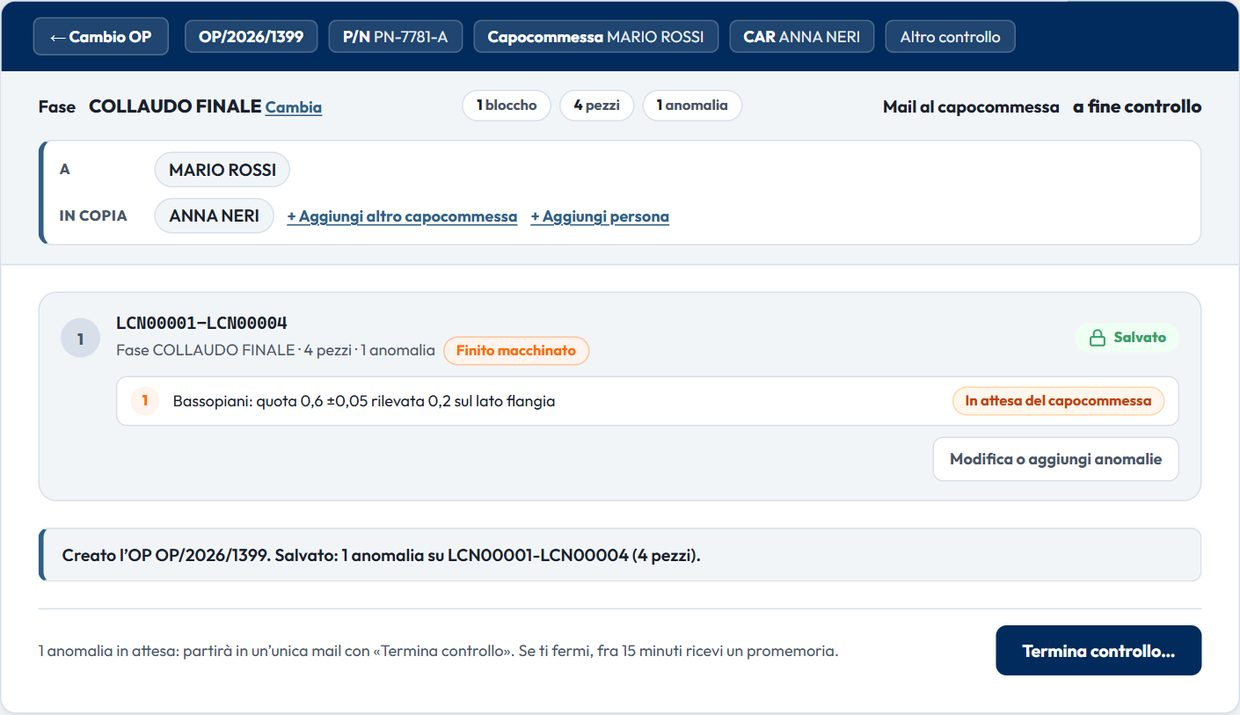
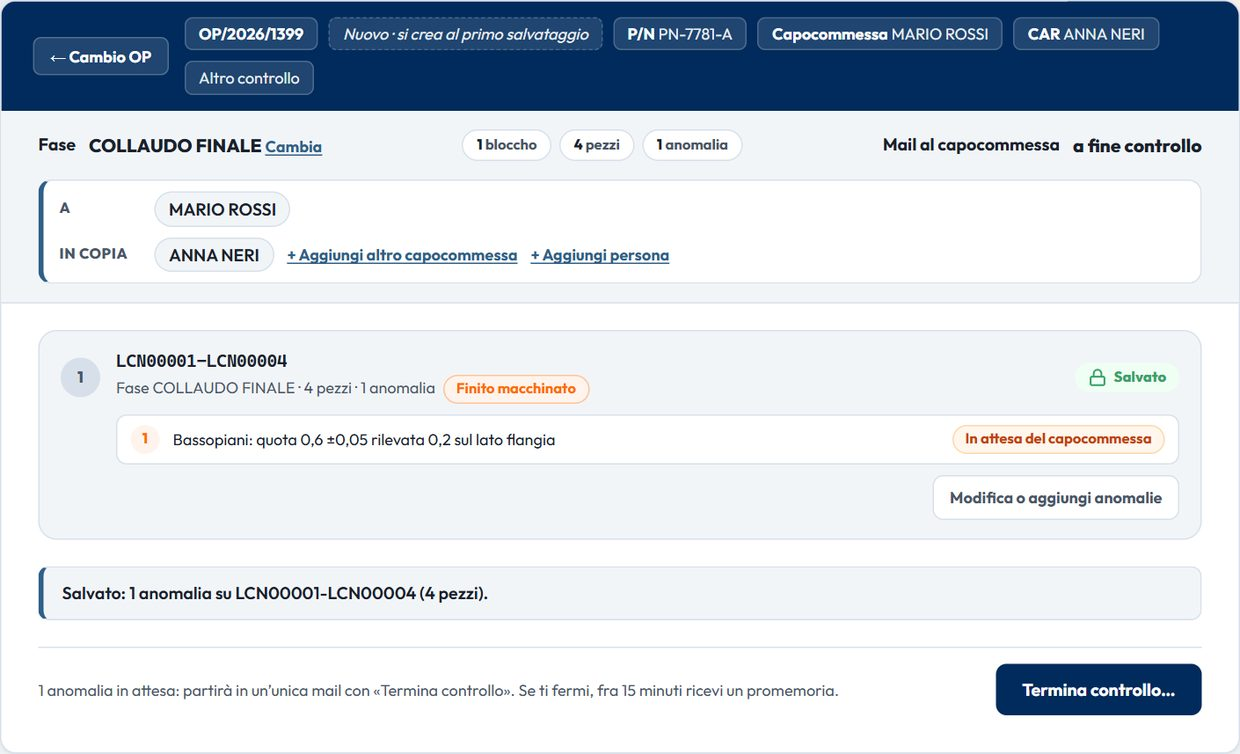
anomalie: immagini delle guide rapide rifatte sulla pagina attuale
Claude-Session: https://claude.ai/code/session_01GzwwLhYUGVAQdd3uMvviE8

diff --git a/django_app/anomalie/guida_ruoli.py b/django_app/anomalie/guida_ruoli.py
@@ -58,7 +58,7 @@ SEZIONI_CONTROLLORE: list[dict] = [
                 "Altra anomalia sugli stessi pezzi: «+ Nuova anomalia su questi seriali».",
                 "Premi «Salva blocco» e passa al blocco successivo.",
             ]),
-            ("img", (_IMG + "c3_blocco.jpg", "Un blocco pronto da salvare")),
+            ("img", (_IMG + "c3_blocco.jpg", "Un blocco pronto da salvare, con «Dove sono i pezzi?» e una misura fuori tolleranza")),
             ("ul", [
                 "Non vedi alcuni di questi campi? Chi gestisce il modulo sceglie in Configurazione quali compaiono e "
                 "per chi (per esempio solo a chi fa il controllo CMM).",
@@ -162,7 +162,7 @@ SEZIONI_CAPOCOMMESSA: list[dict] = [
                 "Scrivi la «Risposta / note per il reparto».",
                 "«Salva» (Ctrl+S) oppure «Salva e prossima».",
             ]),
-            ("img", (_IMG + "k2_decisione.jpg", "Decisione del capocommessa")),
+            ("img", (_IMG + "k2_decisione.jpg", "Decisione del capocommessa: flag, «A quale CAR?», «Dal controllore» e allegati")),
             ("ul", [
                 "Con una nota l'avanzamento non può restare «In attesa».",
                 "L'anomalia si chiude da sola con «Accetto lo stato», «Apertura ORE/RIPI» o aprendo un RDC.",
@@ -186,7 +186,7 @@ SEZIONI_CAPOCOMMESSA: list[dict] = [
                 "successivo. Puoi allegare la comunicazione in «Allegati della decisione».",
                 "Quando il cliente risponde, torna sull'anomalia in Gestione e scegli lo stato definitivo.",
             ]),
-            ("img", (_IMG + "k3_cliente.jpg", "«Segnalare al cliente» e stato «In attesa risposta cliente»")),
+            ("img", (_IMG + "k3_cliente.jpg", "«Segnalare al cliente», «Segnalato al cliente» e stato «In attesa risposta cliente»")),
         ],
     },
     {

diff --git a/CHANGELOG.md b/CHANGELOG.md
@@ -9,6 +9,7 @@ Storico archiviato: [dalla 1.4.0 alla 1.6.2 (pre go-live)](docs/changelog/CHANGE
 
 ## [Unreleased]
 
+- **Anomalie, immagini delle guide rapide rifatte** — catture della pagina attuale con dati di esempio: blocco del controllore con «Dove sono i pezzi?», simboli e «Misura fuori tolleranza»; decisione con «Segnala a terzista», «Segnala a CAR» e «A quale CAR?», «Dal controllore», allegati della decisione; «Segnalato al cliente». Didascalie aggiornate. File: `anomalie/static/anomalie/guida/*.jpg`, `anomalie/guida_ruoli.py`.
 - **Presenti in azienda: entrate e uscite controllate sull'intera giornata** — le «Uscite non timbrate» non guardano più solo l'ultima timbratura: `solari.analizza_giornata` distingue uscita mancante, verso sbagliato (uscita timbrata come entrata, rientro timbrato come uscita), due entrate o due uscite di fila, e non segnala i turni a cavallo della mezzanotte (uscita il mattino dopo entro 16 h). Pagina e mail al capo riportano il problema e la sequenza del giorno («E 07:45 · U 12:00 · E 12:50»). Lista live e appello: due uscite di fila (E · U · U) = presente «da verificare», entrata di ieri sera dalle 18 senza timbrature oggi = presente (turno di notte) fino a 16 h. Verificato in sola lettura sui dati reali (7 giorni: 1 uscita mancante, 2 versi sbagliati prima segnalati male o per niente). File: `presenti/solari.py`, `presenti/uscite.py`, `presenti/views.py`, template `uscite`, `_lista`, `_appello_lista`, `_stile`, `presenti/guida.py`, `core/guide_moduli/contenuti/presenti.py`, `docs/moduli/presenti.md`, test `presenti/tests.py`. Nessuna migrazione.
 - **Anomalie, guide rapide per ruolo allineate** — guida del controllore: «Dove sono i pezzi?», simboli, «Che cosa hai trovato?» con i tre casi, lettura dal report ZEISS, campi visibili decisi in Configurazione, «Riprendi» / «Prendi in carico» un controllo aperto, Clona con le misure. Guida del capocommessa/CAR: referenti RDC in «In carico a me», «Dal controllore», «Segnala a terzista», «Segnala a CAR» senza preselezione, allegati della decisione, «Segnalato al cliente / al terzista» senza mail. File: `anomalie/guida_ruoli.py`. Le immagini delle guide rapide mostrano ancora la pagina precedente.
 - **Presenti in azienda: esterni nella lista, nell'appello di evacuazione e nel PDF** — visitatori, ditte e docenti con ingresso registrato al GuestPortal e non ancora usciti (`CHECKEDIN`) compaiono nella tabella «Esterni in azienda» sotto i dipendenti (nome, azienda, tipo, referente, entrata, badge; ricerca anche per azienda/referente), nel contatore in alto, nell'appello (etichetta «Esterno · azienda», spunta «contato» come i dipendenti; id = visita col segno meno, nessuna migrazione) e nel PDF (tabella «ESTERNI IN AZIENDA», con colonna CONTATO nella stampa dell'appello; anche il PDF pubblicato su SharePoint). Letti nella stessa fotografia al minuto delle timbrature, anche se Solari non risponde; se il GuestPortal non risponde compare l'avviso «contali dal registro della portineria». File: `presenti/services.py`, `presenti/views.py`, `presenti/pdf.py`, `presenti/tasks.py`, template `_lista`, `_appello_lista`, `_stile`, `presenti/guida.py`, `core/guide_moduli/contenuti/presenti.py`, `hub_tools/schema_db.py`, `docs/moduli/presenti.md`, test `presenti/tests.py`. Nessuna migrazione.
